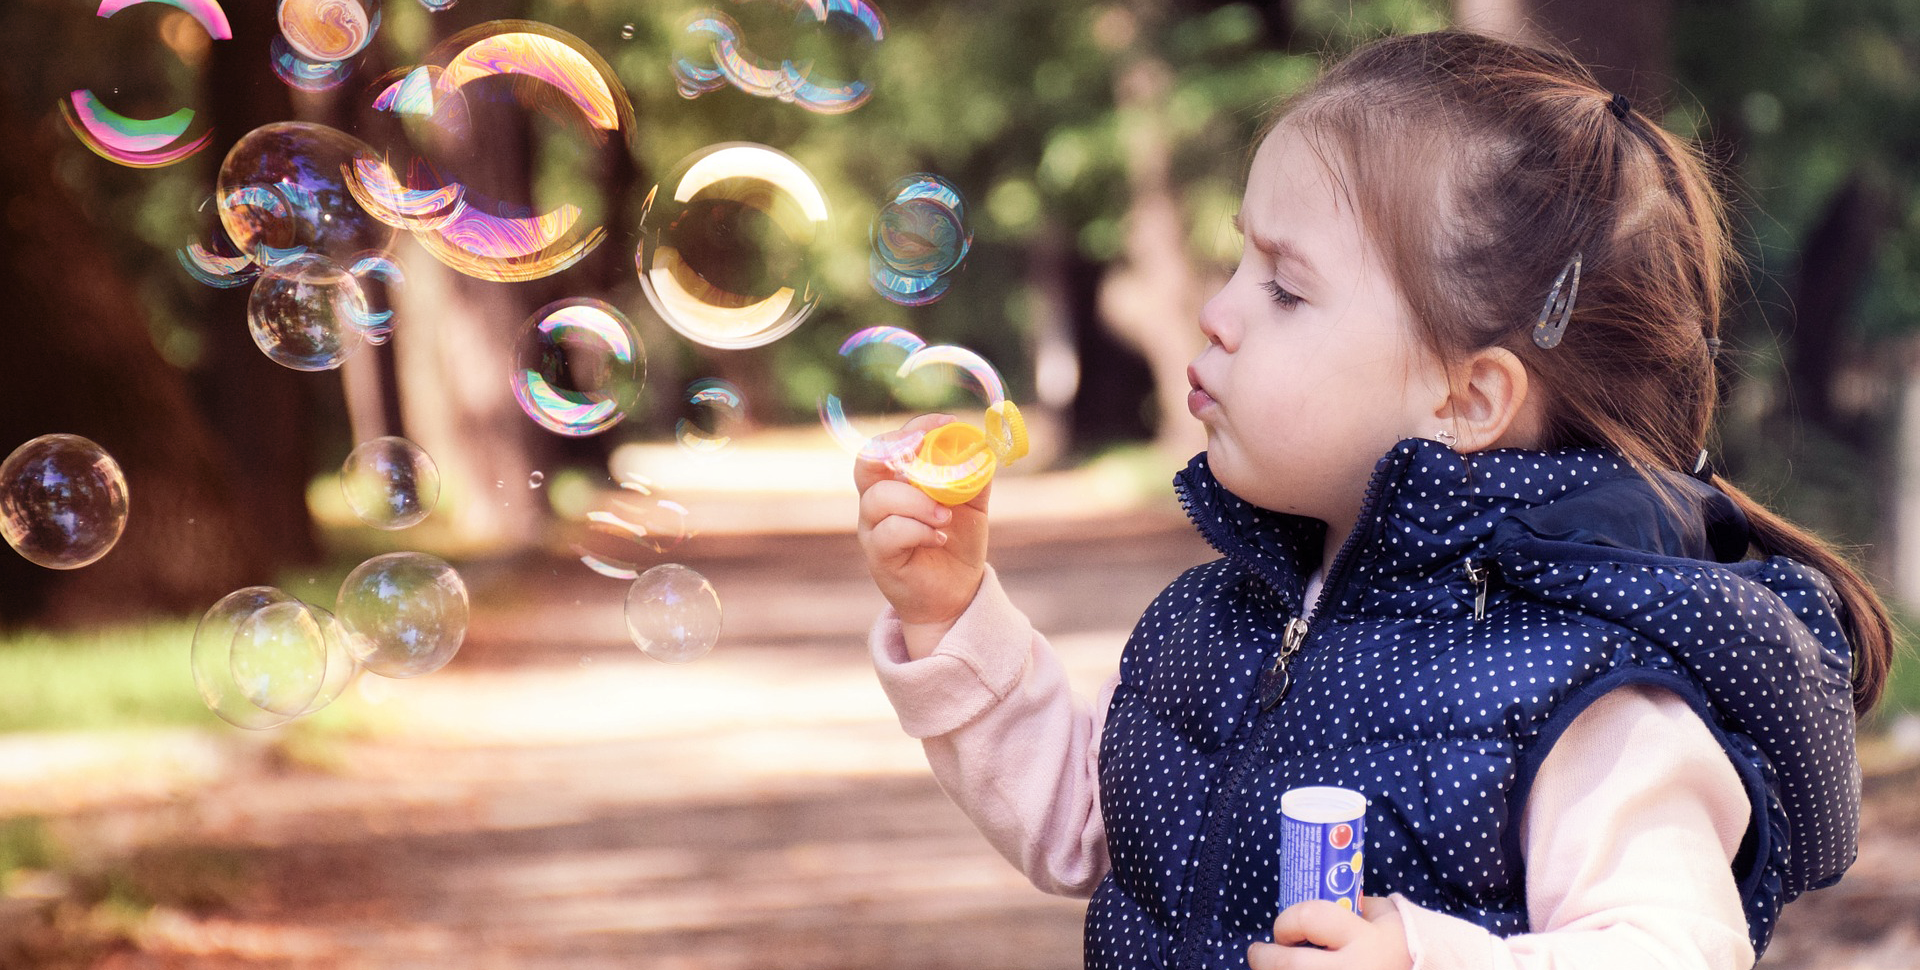
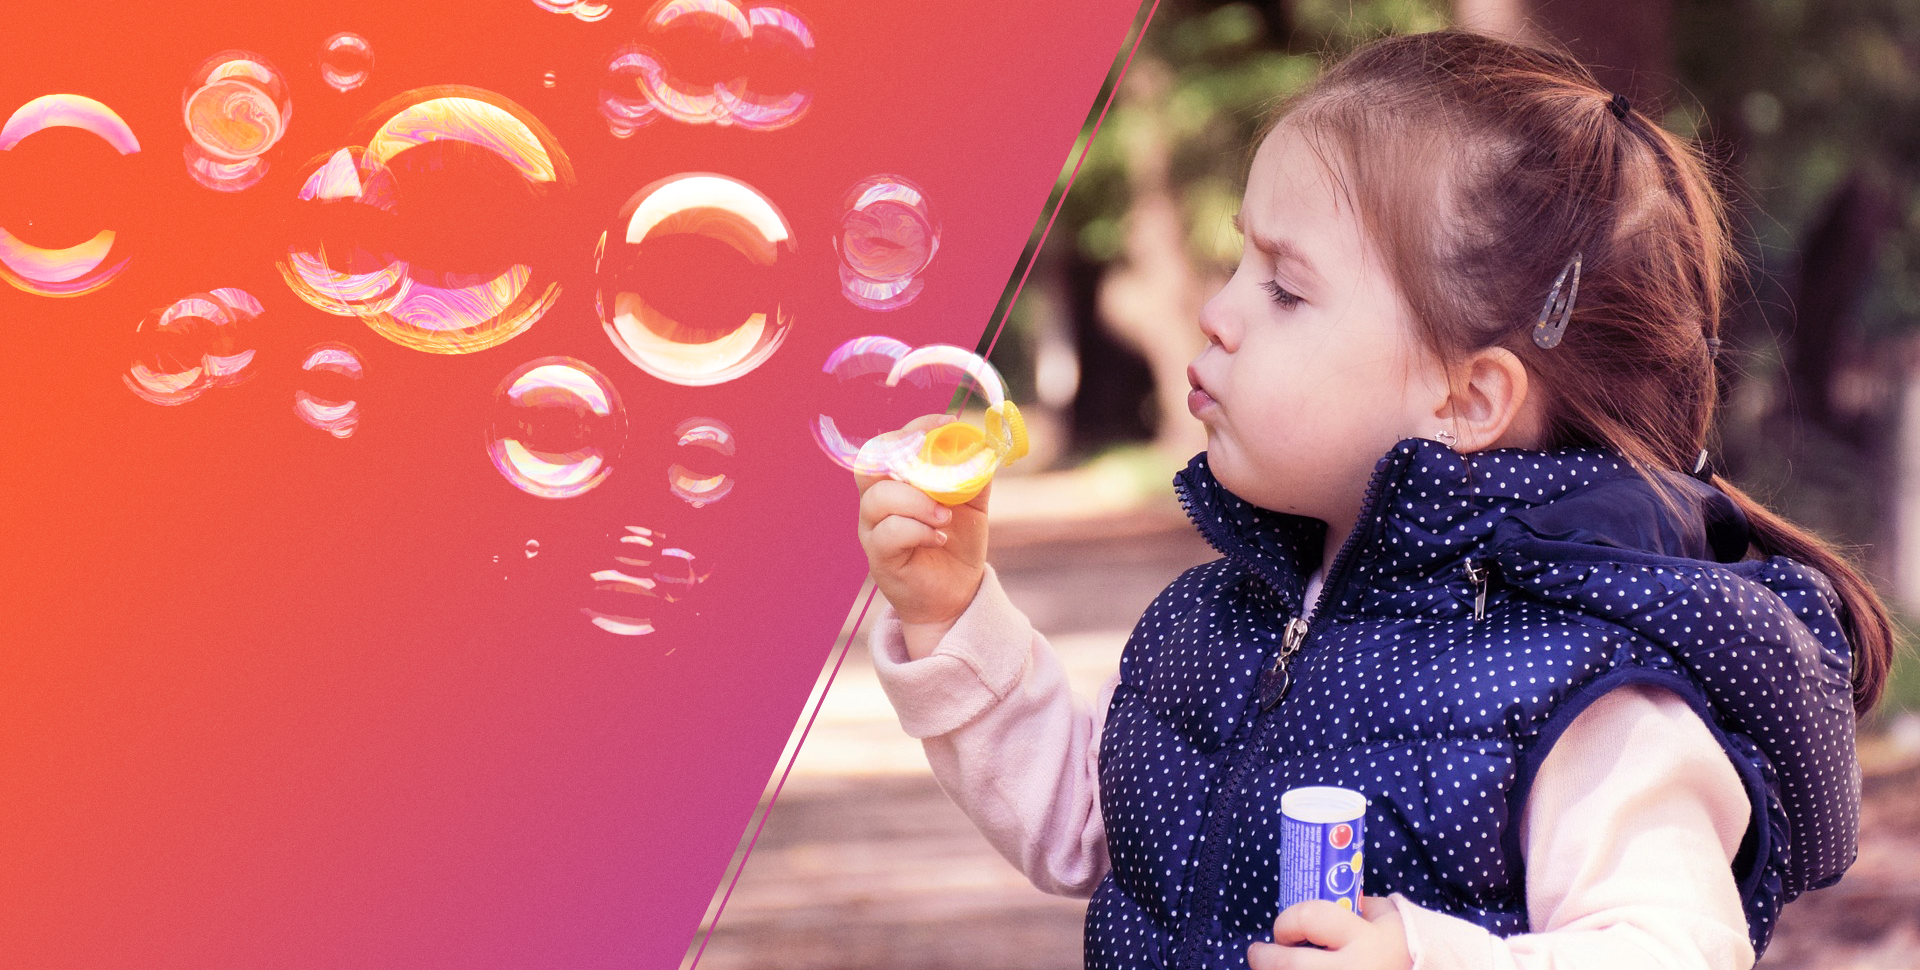
half gradient title image + SectionContainer component with basic about and footer sections

diff --git a/src/components/About.js b/src/components/About.js
@@ -1,0 +1,19 @@
+import React from 'react'
+
+import SectionContainer from '../components/SectionContainer'
+
+//import {headerColor} from '../styles/colors'
+import {contentWidth} from '../styles/dimens'
+import strings from '../../data/strings'
+
+const About = () =>
+  <SectionContainer>
+    <h1>Über mich</h1>
+    <p>Mein Name ist Steffi Rühl. Ich bin verheiratet, habe zwei Kinder und bin von Beruf Kinderkrankenschwester. Nachdem ich jahrelang Erfahrungen in diesem Beruf gesammelt habe, gab ich diese Tätigkeit für die Betreuung meiner Kinder auf.</p>
+    <p>Was zunächst mit einem Kind als Spielkamerad für unsere Tochter begann, hat sich unterdessen zu einer Institution mit fünf Tageskindern entwickelt.</p>
+    <p>Die Tageskinder haben einen festen Platz in unserem Leben. Sie finden Halt und Geborgenheit in einem geregelten und dennoch abwechselungsreichen Tagesablauf.</p>
+    <p>Neben meiner Ausbildung als Kinderkrankenschwester wurde mir das Berliner Grund- und Aufbauzertifikat zur Kinderbetreuung als Tagespflegeperson vom Bezirksamt Pankow erteilt. Regelmäßig nehme ich an den Schulungs- und Fortbildungsmaßnahmen des Jugendamtes teil und tausche Erfahrungen mit anderen Tagesmüttern aus. Die Arbeit mit Kindern bereitet mir viel Freude.</p>
+    <p>Dass Kinder und Eltern sich bei uns wohlfühlen, ist mir eine Herzensangelegenheit.</p>
+  </SectionContainer>
+
+export default About

diff --git a/src/components/TitleScreen.js b/src/components/TitleScreen.js
@@ -18,7 +18,7 @@ const TitleScreen = () =>
 
     <figure 
       css={{
-        position: 'absolute',
+        position: 'fixed',
         left: 0,
         right: 0,
         overflow: 'hidden',
@@ -45,7 +45,7 @@ const TitleScreen = () =>
           display: 'inline-block',
           width: contentWidth,
           padding: '0px 1.0875rem 1.45rem',
-          paddingTop: 580,
+          paddingTop: 610,
           textAlign: 'left',
         }}>
 
@@ -53,7 +53,7 @@ const TitleScreen = () =>
           css={{
             color: 'white',
             fontSize: '5em',
-            textShadow: '2px 2px 0px #f59782'
+            textShadow: '2px 2px 0px ' + primaryColor,
           }}>
 
           {strings.siteTitle}
@@ -61,8 +61,10 @@ const TitleScreen = () =>
 
         <h2
           css={{
-            color: primaryColor,
+            color: 'rgba(255, 255, 255, .5)',
             fontSize: '3em',
+            maxWidth: '900px',
+            textShadow: '1px 1px 0px ' + primaryColor,
           }}>
 
           {strings.siteSlogan}

diff --git a/src/components/SectionContainer.js b/src/components/SectionContainer.js
@@ -1,0 +1,33 @@
+import React from 'react'
+import PropTypes from 'prop-types'
+
+import {contentWidth} from '../styles/dimens'
+
+class SectionContainer extends React.Component {
+  render(children) {
+    return (
+      <div
+        css={{
+          textAlign: 'center',
+          background: this.props.background,
+        }}>
+
+        <div
+          css={{
+            width: contentWidth,
+            display: 'inline-block',
+            textAlign: 'left',
+            paddingTop: 120,
+            paddingBottom: 120,
+          }}>
+
+          {this.props.children}
+
+        </div>
+      </div>
+    )
+  }
+}
+  
+
+export default SectionContainer

diff --git a/src/pages/index.js b/src/pages/index.js
@@ -1,15 +1,23 @@
 import React from 'react'
 import Link from 'gatsby-link'
 import TitleScreen from '../components/TitleScreen'
+import About from '../components/About'
+import Footer from '../components/Footer'
 import strings from '../../data/strings'
 
 const IndexPage = () =>
   <div>
   	<TitleScreen/>
-    <h1>{strings.siteTitle}</h1>
-    <p>Welcome to your new Gatsby site.</p>
-    <p>Now go build something great.</p>
-    <Link to="/site-notice/">Impressum</Link>
+  	<div 
+  		css={{
+  			position: 'relative',
+  			background: 'white',
+  		}}>
+
+  		<About/>
+  		<Footer/>
+
+	</div>
   </div>
 
 export default IndexPage

diff --git a/src/components/Footer.js b/src/components/Footer.js
@@ -1,0 +1,17 @@
+import React from 'react'
+import Link from 'gatsby-link'
+
+import SectionContainer from '../components/SectionContainer'
+
+import {primaryColor} from '../styles/colors'
+import {contentWidth} from '../styles/dimens'
+import strings from '../../data/strings'
+
+const Footer = () =>
+  <SectionContainer background={primaryColor}>
+
+    <h1>Kontakt</h1>
+    <Link to="/site-notice/">Impressum</Link>
+  </SectionContainer>
+
+export default Footer

diff --git a/src/styles/colors.js b/src/styles/colors.js
@@ -1,2 +1,2 @@
-export const primaryColor = '#f59782';
+export const primaryColor = '#eb584f';
 export const headerColor = 'rgba(255, 255, 255, 0.3)';

diff --git a/src/styles/dimens.js b/src/styles/dimens.js
@@ -1,1 +1,1 @@
-export const contentWidth = '1080px';
+export const contentWidth = '1280px';
